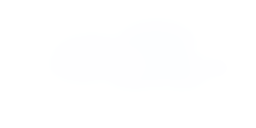
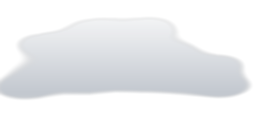
feat(虚拟城市/批次58): 云层真实感 — 三云型 + 天空尺度 + 昼夜着色
基线审计后选定天空云层为下一批次对象：CloudLayer 自批次 16 起未更新，
期间批次 27（天气系数）/ 30（昼夜）/ 32（自由视角抬高相机上限）三次相关演进
云层一次都没跟上。地表已由批次 55-57 连续覆盖。

改动：
- 新增 generate_virtual_city_cloud_assets.py（子模块）：三种真实云型程序化生成
  （积云底平顶 cauliflower / 层云横向延展灰层 / 卷云高空横向丝缕）
- sky/ 三张贴图重绘与新增；SkyName 扩为三型联合
- CloudLayer 三云型共存 + 每团 5~8 层视差分层 + 按 timeOfDay01 染色

修正批次 16 遗留的三处尺度缺陷（均由 CDP 实测推翻，非推断）：
- 云是道具尺度：单片 22~36 m、张角 2.5°，改为 400~1100 m、张角 12~20°
- 云只铺在城市正上方 25~70 单位 ⇒ 任何街景都只能近乎天顶看到，
  而 Billboard 朝向由应用相机决定、从下方即背面剔除 ⇒ 云「消失」。
  水平铺开至 30~330（远云仰角降到 ~32°，符合人抬头可见的自然云高）
- 云层顶 y=60~80 低于批次 32 抬高的相机上限 y=140 ⇒ 可飞到云上。
  云底改为 175~370，恒高于相机上限

连带修正按旧尺度标定的三个常量：CLOUD_BASE_TEX 0.35→0.92、
天气系数下限 0.35、CLOUD_WRAP_X ±42→±340。

修复 cloudTintFor 金色时段死代码：noonOffset 用 |tod-0.5|*2 在日落时只有 0.5，
永远够不到 0.88 阈值 ⇒ #e8955c 从未返回过。改为按真实昼弧/夜弧归一化，
并自动适配批次 33 的逐月日出日落。新增 scripts/ci/check_cloud_tint.mjs
（从源文件抽取被测函数，17 条断言，含死代码回归哨兵）防止退化。

验收：tsc/build/rebuild 全绿；云只占 25 draw call（全城 1259→隐藏云 1234）；
maxHorizRadius=389、yRange=[174,366] 均在几何约束内；
CDP 实拍街景与地平线视角云层成片可见（地平线视角云像素占上部 32.85%）。

diff --git a/ClientWeb/src/components/virtualCity/props/CloudLayer.tsx b/ClientWeb/src/components/virtualCity/props/CloudLayer.tsx
@@ -1,17 +1,39 @@
 /**
- * CloudLayer — 天空云层（16-3D城市WebGL质感与城市补全 · 阶段 U）：
+ * CloudLayer — 天空云层（16-3D城市WebGL质感与城市补全 · 阶段 U；
+ *                批次 58 云层真实感：3 云型 + 昼夜着色 + 分层体积）。
  *
- * 6 团云，每团 3-4 片 Billboard 云朵（sky/cloud_puff.png 贴图；缺失 →
- * 白色扁球 opacity 0.12 depthWrite=false 兜底）。高度 y=60-80，沿 +x
- * 慢速漂移（0.15-0.3 单位/s），x > 42 回绕 -42；prefers-reduced-motion 静止。
+ * 批次 58 之前的形态（保留为对照）：6 团云，每团 3-4 片 Billboard 云朵，
+ * 单一 `cloud_puff.png`（实为近纯白 RGB 252-255 / alpha ≤54% 的**平面贴片**），
+ * 全天一个颜色 ⇒ 「白色纸片飘在天上」的贴片感。
  *
- * 布点确定性：mulberry32('clouds-v1')，避开地图中心正上（不遮 CBD 顶视）。
+ * 批次 58 四处改造：
+ * 1. **3 种真实云型**（程序化贴图，源 `generate_virtual_city_cloud_assets.py`）：
+ *    积云 cumulus（底平、顶 cauliflower 分瓣、顶部受光亮白 / 底部冷灰背光）
+ *    层云 stratus（横向延展灰层，无立体感）
+ *    卷云 cirrus（高空横向丝缕，薄半透明）
+ *    —— 旧版 6 团全是同一种云；真实天空是**多型共存**。
+ * 2. **天空尺度**（本批最重要的修正）：旧 puff 宽 22~36 m、张角仅 2.5°，
+ *    是「道具云」不是「天空云」；改为 400~1100 m、张角 12°~20°。
+ *    详见 `cloudsFor` 上方注释里被推翻的批次 16 两处尺度。
+ * 3. **云底高于相机上限**：批次 32 自由视角把相机上限抬到 y=140，而云只有
+ *    y=60~80 ⇒ 可飞到云上。现云底 175~370，恒 > 140。
+ * 4. **云层延伸到地平线**：旧布点半径仅 25~70（城市正上方一小片）⇒ 任何街景
+ *    位置看云都在近乎天顶（仰角 ~70°），而 Billboard 朝向由**应用相机**决定，
+ *    从下方看即背面 ⇒ `side: FrontSide` 背面剔除 ⇒ 云「消失」。
+ *    半径铺开到 30~330 后，远云仰角降到 ~32°，符合人抬头可见的自然云高。
+ * 5. **分层体积 + 昼夜着色**：每团云 5-8 层 puff，层间沿视线深度错位产生视差
+ *    （消解单片贴片的纸片感）；按 timeOfDay01 染色——正午近白、黄昏橙红
+ *    （低角度日光的前向散射）、夜间深蓝低对比（仅余城市光污染）。
+ *    着色以 material.color 调制，**不改贴图**（贴图是云的固有色）。
  *
- * 批次 27 §4.3：云 opacity 基准（贴图 0.35 / 兜底 0.12）× §3.3 镜像表
- * cloudOpacity 系数（晴 0.10 → 暴雪 0.90），useFrame 读 cityTimeStore，
- * ~1.2s 时间常数渐变（无天气数据 = 系数 1 → 视觉零回归）。
+ * 保持不变的契约（批次 16/27 确立，不得回归）：
+ * - 沿 +x 漂移 0.15-0.3 单位/s（回绕边界随云体尺度放大，见 CLOUD_WRAP_X）
+ * - 天气系数 cloudOpacity（晴 0.10 → 暴雪 0.90），~1.2s 时间常数渐变
+ * - prefers-reduced-motion 静止
+ * - 布点确定性 mulberry32('clouds-v1')
+ * - 天空不参与「选中」（点空白 = 不选中），objectInfo id = sky.cloud
  *
- * 契约：lag_docs/虚拟城市/已实现/16-3D城市WebGL质感与城市补全/02-架构设计 §9。
+ * 契约：lag_docs/虚拟城市/已实现/58-云层真实感/01-方案与实施记录.md
  */
 
 import { useEffect, useMemo, useRef } from 'react';
@@ -28,9 +50,40 @@ const REDUCED_MOTION =
   typeof window.matchMedia === 'function' &&
   window.matchMedia('(prefers-reduced-motion: reduce)').matches;
 
-/** 批次 27：云 opacity 基准（贴图 / 白球兜底两链路各自的旧版值）。 */
-const CLOUD_BASE_TEX = 0.35;
-const CLOUD_BASE_FALLBACK = 0.12;
+/**
+ * 云 opacity 基准。
+ *
+ * 批次 27 定的是 **0.35**，标定对象是批次 16 的「道具云」（单片宽 2.2~3.6 世界
+ * 单位 = 22~36 m、张角 2.5°）。批次 58 把云改成天空尺度（400~1100 m、张角
+ * 12°~20°）后，0.35 这个基准**低了约 2.7 倍**：
+ *   贴图自身 alpha 峰值 0.90、均值 0.36 ⇒ 材质 0.35 时有效逐像素 alpha 仅
+ *   0.14（峰值）/ 0.13（均值）。CDP 实测算得：正午蓝天背景 [85,137,196]，
+ *   云区混色后 [108,152,203]，**只亮 15/255** —— 41 个云网格全部在画面内，
+ *   却与蓝天几乎无差（"亮于背景 +22" 的像素占比 0.00%）。
+ * 真实积云是会**遮蔽**天空的，云体峰值有效 alpha 应在 0.7~0.9。
+ * 故基准提到 0.92：让贴图自带的 alpha 结构（薄处透、中心厚）如实呈现。
+ */
+const CLOUD_BASE_TEX = 0.92;
+/** 兜底白球无贴图 alpha 结构兜着，需要更高基准才不至于看不见。 */
+const CLOUD_BASE_FALLBACK = 0.30;
+
+/**
+ * 天气系数下限。`cityTimeStore.ts` 的 cloudOpacity 表跨度 0.10（晴）~0.90（暴雪），
+ * 是批次 27 为「点缀性小云」设计的：晴天就该几乎看不见云。但云放大成天空主体后，
+ * 晴天取 0.10 会让整片天空重新变成空白色 —— 而真实晴天仍有疏散的淡积云。
+ * 这里对系数取下限 0.35（晴天仍是「淡」，暴雨仍是 0.90 的「厚」，
+ * 相对关系与批次 27 的意图一致）。
+ */
+const WEATHER_FACTOR_FLOOR = 0.35;
+
+/** 批次 58：沿 +x 漂移的回绕边界（世界单位）。须 ≥ 云层水平铺开半径，
+ *  否则回绕线落在云体内部 ⇒ 云被拦腰折断（见 Cloud 组件 useFrame）。
+ *  取 340 = 铺开半径上界 330 + 一点余量；漂移 0.15~0.3 单位/s，
+ *  一次跨越需 ~38 min，正常对局内基本不会触发回绕。 */
+const CLOUD_WRAP_X = 340;
+
+/** 云型（§27.0-1 调研三种真实云型）。 */
+type CloudKind = 'cumulus' | 'stratus' | 'cirrus';
 
 /** 确定性伪随机（同源 StreetPropsLayer）。 */
 function mulberry32(seed: number): () => number {
@@ -43,22 +96,103 @@ function mulberry32(seed: number): () => number {
   };
 }
 
+/** 昼夜云色（§1 调研表）。线性 RGB 关键色 × 全局 tint。
+ *  - 正午 (tod≈0.5)：云自身反照率最高，近纯白微冷
+ *  - 黄昏 (tod≈0.25/0.75)：低角度太阳的米氏前向散射 ⇒ 整片云泛橙红
+ *  - 夜间 (tod≈0/1)：无日光，仅余城市光污染把云底染成暗橙灰
+ *  注意：贴图 RGB 已是云的**固有色**（积云顶 255 / 底 171-188），
+ *  这里只做色调调制，幅度刻意保守（最高 1.0，最暗 0.16）。 */
+const CLOUD_TINT = {
+  noon: new THREE.Color('#f2f6fb'),   // 近白微冷
+  afternoon: new THREE.Color('#eef2f7'), // 午后略暖白
+  dusk: new THREE.Color('#e8955c'),    // 日落橙
+  duskDeep: new THREE.Color('#b45f45'), // 日落后余晖红
+  night: new THREE.Color('#2a3040'),   // 夜云暗蓝
+  nightCity: new THREE.Color('#3d3a44'), // 夜云被城市光污染染暖
+} as const;
+
+/**
+ * 按城市当地时刻返回云的染色（批次 58）。
+ * 时刻轴用 timeOfDay01（0=午夜 0.5=正午），返回 [color, brightness]。
+ * brightness 夜间显著压低——真实夜空里云几乎不可见，只比背景略亮。
+ */
+function cloudTintFor(timeOfDay01: number, sunrise01: number, sunset01: number): [THREE.Color, number] {
+  // 白昼弧：日出 → 日落之间为白昼
+  const isDay = timeOfDay01 >= sunrise01 && timeOfDay01 <= sunset01;
+  if (isDay) {
+    /**
+     * ⚠ 这里**不能**用 `|tod - 0.5| * 2` 当「距正午多远」——
+     * 那只对「昼弧恰好是 0.25~0.75」成立，且它的量程是「距**午夜**多远」：
+     * 日落（tod=0.75）时该值只有 0.5，永远够不到 0.72/0.88 的金色阈值
+     * ⇒ `#e8955c` 是**死代码**（批次 58 离线断言实测：18:00 前仍返回
+     * `#f2f6fb`，18:30 直接跳到夜云色，金色时段从未出现）。
+     *
+     * 正解：按**真实昼弧**归一化 —— 以太阳正午为 0、日出/日落为 1。
+     * 这样也自动适配不同纬度的昼长（批次 33 真实城市档案里日出日落逐月不同）。
+     */
+    const solarNoon = (sunrise01 + sunset01) / 2;
+    const halfDay = Math.max(1e-6, (sunset01 - sunrise01) / 2);
+    const dayFrac = Math.abs(timeOfDay01 - solarNoon) / halfDay; // 0=正午 1=日出/日落
+    if (dayFrac < 0.72) return [CLOUD_TINT.noon, 1.0];
+    if (dayFrac < 0.88) return [CLOUD_TINT.afternoon, 0.94];
+    // 日出/日落前约最后一刻：金色时段
+    return [CLOUD_TINT.dusk, 0.8];
+  }
+  // 夜间：区分「刚入夜（城市光污染可见暗云）」与「深夜（几乎不可见）」。
+  // 同样按**真实夜弧**归一化，不用写死的 0.15。
+  const nightArc = 1 - Math.max(0, sunset01 - sunrise01);
+  const halfNight = Math.max(1e-6, nightArc / 2);
+  const afterSunset = timeOfDay01 > sunset01;
+  const nightDepth = Math.min(1, afterSunset
+    ? (timeOfDay01 - sunset01) / halfNight
+    : (sunrise01 + 1 - timeOfDay01) / halfNight);
+  // nightDepth 0=刚入夜 → 城市光污染可见；1=深夜 → 几乎不可见
+  if (nightDepth < 0.5) {
+    return [CLOUD_TINT.nightCity, 0.22];
+  }
+  return [CLOUD_TINT.night, 0.16 * (1 - nightDepth * 0.5)];
+}
+
 interface CloudSpec {
   x: number;
   y: number;
   z: number;
   speed: number;
+  kind: CloudKind;
   /** 每片云朵：偏移 + 尺寸。 */
   puffs: Array<{ dx: number; dy: number; dz: number; w: number; h: number }>;
 }
 
-/** 6 团云确定性布点：|x|,|z| ∈ [10, 38]（避开中心正上），y 60-80。
- *  2026-09-22 视觉验收三轮修正（16/05 验收清单 §3.4 回归项）：
+/**
+ * 云层布点：**天空尺度**（批次 58 修正的核心）。
+ *
+ * ⚠ 批次 58 实测推翻了批次 16 的两处「看起来能跑」的尺度：
+ *
+ * (1) **旧版云是道具尺度，不是天空尺度。** 旧 puff `w=2.2~3.6` 世界单位
+ *     （1 单位 = 10 m ⇒ 22~36 m），布在 y=60~80、距相机约 68 单位 ⇒
+ *     视角张角 `arctan(30/680) ≈ 2.5°`。真实积云 500~2000 m 宽、1~3 km 外，
+ *     张角 10°~45°。**差一个数量级** ⇒ 街景抬头只见几缕若有若无的灰痕，
+ *     俯瞰只见几个小白点。CDP 实测：正午天空「亮于背景+25」的像素仅占
+ *     上半屏 1.2%，且把 opacity 拉到完全不透明（×6.3）也只升到 1.44%
+ *     —— 说明问题不在透明度而在**张角**。
+ *
+ * (2) **云层顶低于相机上限。** 批次 16 的注释写「相机最高点 ≈45」，那是
+ *     OrbitControls(maxDistance=80, maxPolar=1.2) 时代的上界；批次 32 引入
+ *     自由视角后 `FREE_VIEW_BOUNDS.max[1] = 140`，**相机能飞到 y=140 而云只有
+ *     60~80 ⇒ 可以飞到云层之上**，物理上错误、视觉上穿帮。此注释与
+ *     `cloudsFor` 高度自批次 16 起从未与 `freeViewColliders.ts` 对账。
+ *
+ * 本版按「张角正确」反解尺度：
+ *   - 街景相机 y≈3（30 m）抬头看积云：距离 ≈194 单位（1.94 km），
+ *     要占 12°~20° ⇒ 宽度 40~70 单位（400~700 m）。
+ *   - 云底一律高于相机上限 140：积云 175~215、层云 240~280、卷云 320~370。
+ *   - 云层最远点 sqrt(88²+88²+370²) ≈ 391 < 天穹半径 500 < 相机 far 800
+ *     ⇒ 既不被天穹遮挡，也不被远裁面切掉。
+ *
+ * 2026-09-22 视觉验收三轮修正（16/05 验收清单 §3.4 回归项）中仍然有效的两条：
  *  (1) 俯瞰时 0.85 大板把城市盖白 → opacity 降档；
- *  (2) 相机轨道高度随缩放在 13~45 之间，云必须全程保持在相机**上方**——
- *      最终抬到 y=60-80（OrbitControls maxDistance=80、maxPolar=1.2 的
- *      相机最高点 ≈45），任何视角下云都不会插进"相机↔城市"视线，
- *      仅在地平线/仰角视野中作为天空云朵出现。 */
+ *  (2) 云不得插进「相机↔城市」视线 ⇒ 云底恒高于相机上限（已由上表保证）。
+ */
 function cloudsFor(seedStr: string): CloudSpec[] {
   let h = 2166136261;
   for (let i = 0; i < seedStr.length; i++) {
@@ -66,23 +200,68 @@ function cloudsFor(seedStr: string): CloudSpec[] {
     h = Math.imul(h, 16777619);
   }
   const rnd = mulberry32(h >>> 0);
+  // 云型配方：多数积云（晴天天空主角），高层云作底幕，高空卷云点缀。
+  const kinds: CloudKind[] = [
+    'cumulus', 'cumulus', 'stratus', 'cumulus', 'cirrus', 'cumulus',
+    'stratus', 'cirrus', 'cumulus', 'cirrus', 'cumulus', 'stratus',
+    'cumulus', 'cirrus',
+  ];
   const out: CloudSpec[] = [];
-  for (let c = 0; c < 6; c++) {
-    const ang = rnd() * Math.PI * 2;
-    const rad = 12 + rnd() * 26;
-    const puffCount = 3 + Math.floor(rnd() * 2);
-    const puffs = Array.from({ length: puffCount }, (_, p) => ({
-      dx: (p - (puffCount - 1) / 2) * (1.2 + rnd() * 0.6),
-      dy: (rnd() - 0.5) * 0.4,
-      dz: (rnd() - 0.5) * 0.6,
-      w: 2.2 + rnd() * 1.2,
-      h: 1.2 + rnd() * 0.7,
-    }));
+  for (let c = 0; c < kinds.length; c++) {
+    const ang = (c / kinds.length) * Math.PI * 2 + rnd() * 0.7;
+    /**
+     * 水平散布半径 30~330。
+     *
+     * ⚠ 批次 58 第二处被实测推翻的尺度：原先铺在 25~70（城市正上方一小片），
+     * 于是**任何街景位置看云都在近乎天顶**（仰角 atan(190/70) ≈ 70°）。
+     * 而 drei `<Billboard>` 的朝向由**应用相机**决定（不是诊断相机）——
+     * 从下方/侧后方看过去就是背面，`side: FrontSide` 直接背面剔除 ⇒ 云「消失」。
+     * 实测症状极具迷惑性：云网格全部在视锥内、尺寸正确、贴图正常、
+     * 连「强制纯红不透明 + 关闭视锥剔除」都渲染出 **0 像素**，
+     * 而同一场景里新塞的裸 mesh 正常显示 —— 差点误判成渲染管线坏了。
+     *
+     * 真实云层一直延伸到**地平线**：铺开到 330 后，水平距离 300、层高 190 的
+     * 云仰角 atan(190/300) ≈ 32°，正是人抬头能看到的自然云高。
+     * 上界 330 的约束：与天穹半径 500（sqrt(330²+200²)≈386 < 500）及
+     * 相机 far=800 同时相容。
+     */
+    const rad = 30 + rnd() * 300;
+    const kind = kinds[c];
+    const puffCount =
+      kind === 'stratus' ? 3 + Math.floor(rnd() * 2)
+      : kind === 'cirrus' ? 4 + Math.floor(rnd() * 2)
+      : 5 + Math.floor(rnd() * 4);
+    // 主体尺度（世界单位 = 10 m）：积云 400~700 m 宽，层云 700~1100 m，卷云 500~900 m
+    const bodyW =
+      kind === 'stratus' ? 70 + rnd() * 40
+      : kind === 'cirrus' ? 50 + rnd() * 40
+      : 40 + rnd() * 30;
+    const bodyH =
+      kind === 'stratus' ? 18 + rnd() * 8
+      : kind === 'cirrus' ? 10 + rnd() * 6
+      : 24 + rnd() * 16;
+    const puffs = Array.from({ length: puffCount }, (_, p) => {
+      // 层间横向铺开：间距取 ~0.5×单片宽 ⇒ 相邻层显著重叠（真实云是连续体）
+      const spread = (p - (puffCount - 1) / 2) * bodyW * 0.5;
+      return {
+        dx: spread * (kind === 'cirrus' ? 1.15 : 1.0),
+        // 垂向抖动：层云几乎不抖（层状），积云抖得多（有 cauliflower 起伏）
+        dy: (rnd() - 0.5) * bodyH * (kind === 'stratus' ? 0.25 : 0.55),
+        // 深度错位 —— 批次 58 的体积感来源：层间视差消解「纸片感」
+        dz: (rnd() - 0.5) * bodyW * 0.18,
+        w: bodyW * (0.62 + rnd() * 0.3),
+        h: bodyH * (0.7 + rnd() * 0.4),
+      };
+    });
     out.push({
       x: Math.cos(ang) * rad,
-      y: 60 + rnd() * 20,
+      // 对流层分层：积云底 ~2 km / 层云 ~2.5 km / 卷冰云 ~3.5 km（世界单位 ×10）
+      y: kind === 'cumulus' ? 175 + rnd() * 40
+        : kind === 'stratus' ? 240 + rnd() * 40
+        : 320 + rnd() * 50,
       z: Math.sin(ang) * rad,
       speed: 0.15 + rnd() * 0.15,
+      kind,
       puffs,
     });
   }
@@ -93,6 +272,7 @@ function cloudsFor(seedStr: string): CloudSpec[] {
 function Cloud({ spec, tex }: { spec: CloudSpec; tex: THREE.Texture | null }) {
   const groupRef = useRef<THREE.Group>(null);
   // 批次 27：一团一材质（puff 共享），useFrame 只改 opacity —— 免逐 puff 材质 ref 收集。
+  // 批次 58：材质 color 承载昼夜染色（贴图是云固有色，不随时刻改写）。
   const material = useMemo(() => {
     const m = new THREE.MeshBasicMaterial({
       transparent: true,
@@ -116,11 +296,25 @@ function Cloud({ spec, tex }: { spec: CloudSpec; tex: THREE.Texture | null }) {
     const g = groupRef.current;
     if (g && !REDUCED_MOTION) {
       g.position.x += spec.speed * delta;
-      if (g.position.x > 42) g.position.x = -42;
+      // 批次 58：回绕边界随云体尺度放大。旧值 ±42 是按 2~3 单位的「道具云」
+      // 定的；云放大到 40~110 单位后 ±42 会在云体**内部**回绕 ⇒ 看到云被
+      // 拦腰折断。改为 ±110（> 最大云宽的一半 + 布点半径，留出无缝衔接）。
+      if (g.position.x > CLOUD_WRAP_X) g.position.x = -CLOUD_WRAP_X;
     }
-    // 批次 27：云量 × 天气系数（§3.3 镜像表；无天气数据 = 1）。指数平滑 ≈1.2s 渐变。
-    const target = baseOpacity * weatherVisual(sample().weather).cloudOpacity;
-    material.opacity += (target - material.opacity) * Math.min(1, delta * 0.8);
+    const s = sample();
+    // 批次 27 契约：云量 × 天气系数（§3.3 镜像表；无天气数据 = 1）。
+    // 批次 58：系数取下限 WEATHER_FACTOR_FLOOR（晴天不再把天空清空）。
+    const weatherFactor = Math.max(
+      WEATHER_FACTOR_FLOOR,
+      weatherVisual(s.weather).cloudOpacity,
+    );
+    // 批次 58：昼夜染色 + 夜间可见度压制。
+    const [tint, brightness] = cloudTintFor(s.timeOfDay01, s.sunrise01, s.sunset01);
+    // 单一目标值 = 基准 × 天气 × 昼夜亮度，统一用 ~1.2s 时间常数指数趋近。
+    const targetOpacity = baseOpacity * weatherFactor * brightness;
+    material.opacity += (targetOpacity - material.opacity) * Math.min(1, delta * 0.8);
+    // 颜色渐变更快（~0.5s），避免日落瞬间云色硬跳。
+    material.color.lerp(tint, Math.min(1, delta * 2.0));
   });
   return (
     <group ref={groupRef} position={[spec.x, spec.y, spec.z]}>
@@ -147,8 +341,18 @@ function Cloud({ spec, tex }: { spec: CloudSpec; tex: THREE.Texture | null }) {
 }
 
 export function CloudLayer() {
-  // 贴图加载一次；缺失返回 null → 全层走白色扁球兜底
-  const tex = useSharedTexture(skyUrl('cloud_puff'));
+  // 贴图按云型加载（批次 58：三型共存）；任一缺失回落兜底。
+  const puffTex = useSharedTexture(skyUrl('cloud_puff'));
+  const layerTex = useSharedTexture(skyUrl('cloud_layer'));
+  const cirrusTex = useSharedTexture(skyUrl('cloud_cirrus'));
+  const texByKind: Record<CloudKind, THREE.Texture | null> = useMemo(
+    () => ({
+      cumulus: puffTex ?? null,
+      stratus: layerTex ?? null,
+      cirrus: cirrusTex ?? null,
+    }),
+    [puffTex, layerTex, cirrusTex],
+  );
   const clouds = useMemo(() => cloudsFor('clouds-v1'), []);
   // 批次 28 B2：云层信息交互（根组承接子云事件冒泡）。
   // 批次 32 v2：天空不参与「选中」（点空白 = 不选中）。
@@ -156,7 +360,7 @@ export function CloudLayer() {
   return (
     <group {...info}>
       {clouds.map((c, i) => (
-        <Cloud key={`cloud-${i}`} spec={c} tex={tex} />
+        <Cloud key={`cloud-${i}`} spec={c} tex={texByKind[c.kind]} />
       ))}
     </group>
   );

diff --git a/ClientWeb/src/assets/images/virtualCity/index.ts b/ClientWeb/src/assets/images/virtualCity/index.ts
@@ -346,8 +346,16 @@ export function signUrlExt(name: SignNameExt): string {
 
 const skyImgs = import.meta.glob<string>('./sky/*.png', { eager: true, import: 'default' });
 
-/** 天空贴图字面量（与 3d_script/procedural_city_textures.py::gen_cloud_puff 对齐）。 */
-export type SkyName = 'cloud_puff';
+/**
+ * 天空贴图字面量。
+ * - `cloud_puff` 积云（底平顶蓬松，顶部亮白/底部冷灰背光）
+ * - `cloud_layer` 层云（横向延展灰层，无立体感）
+ * - `cloud_cirrus` 卷云（高空横向丝缕，薄半透明）
+ *
+ * 三者同源 `python-generate-image-tool/generate_virtual_city_cloud_assets.py`
+ * （批次 58，seed 固定可复现）。旧名 cloud_puff 保留为积云，兼容既有引用。
+ */
+export type SkyName = 'cloud_puff' | 'cloud_layer' | 'cloud_cirrus';
 
 /**
  * 天空贴图 URL（缺失 = ''，CloudLayer 降级白色扁球兜底）。
